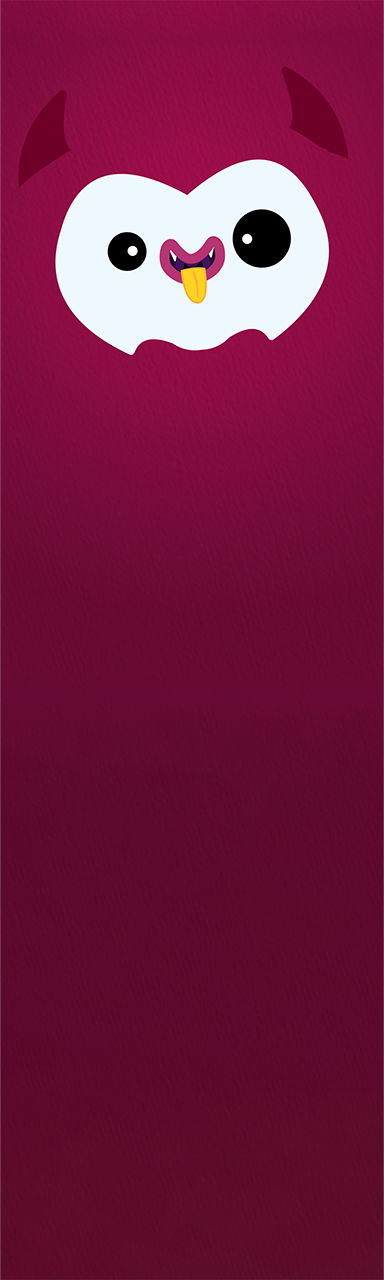
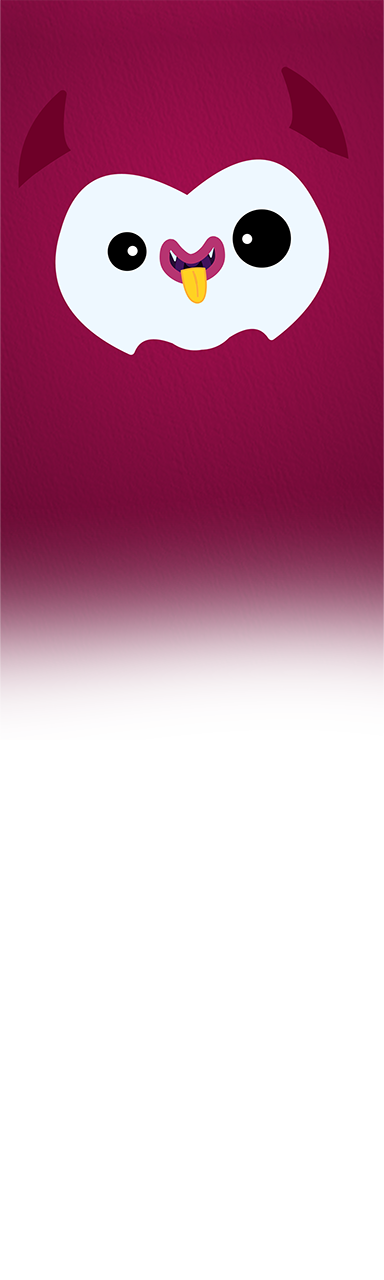
testbedReleasepageUpdates

diff --git a/Testbed/index.html b/Testbed/index.html
@@ -47,6 +47,15 @@
     height: calc(min(100vw, 1920px) * (1080/1920));
     transform: translateX(-50%);
     min-width: 360px;
+}
+.Main_Wrapper2 {
+    position: absolute;
+    top: 0;
+    left: 50%;
+    width: min(100vw, 1920px);
+    height: 100%;
+    transform: translateX(-50%);
+    min-width: 360px;
     box-shadow: 0 0 30px 10px rgba(0, 0, 0, 0.75);  /* Added drop shadow */
 }
 .Main_Wrapper::before {
@@ -319,6 +328,7 @@
     </script>
 </head>
 <body>
+    <div class="Main_Wrapper2">
     <div class="Main_Wrapper">
         <div class="Content_Wrapper">
             <div class="Row">
@@ -358,6 +368,7 @@
             </div>
         </div>
     </div>
+        </div>
     <script>
         document.addEventListener('DOMContentLoaded', () => {
             const form = document.getElementById('signup-form');
